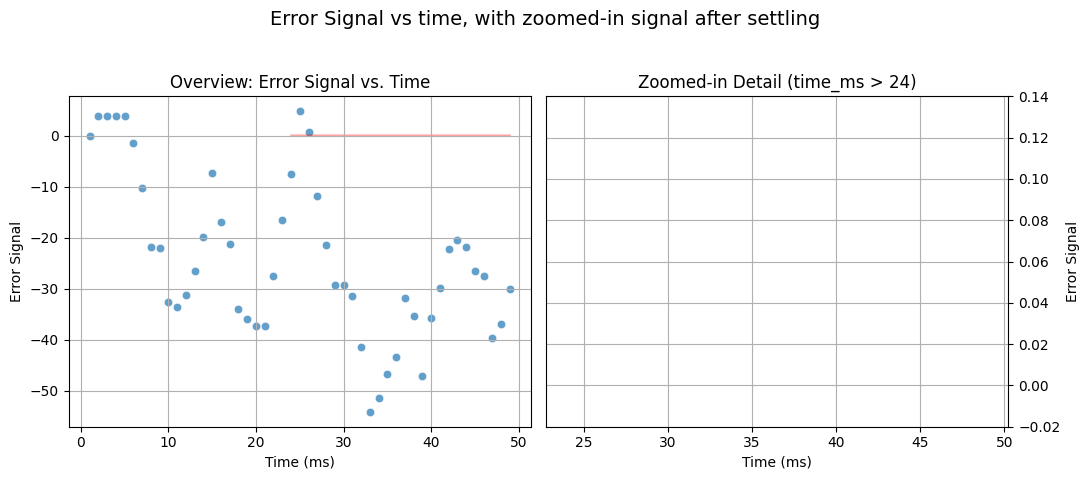
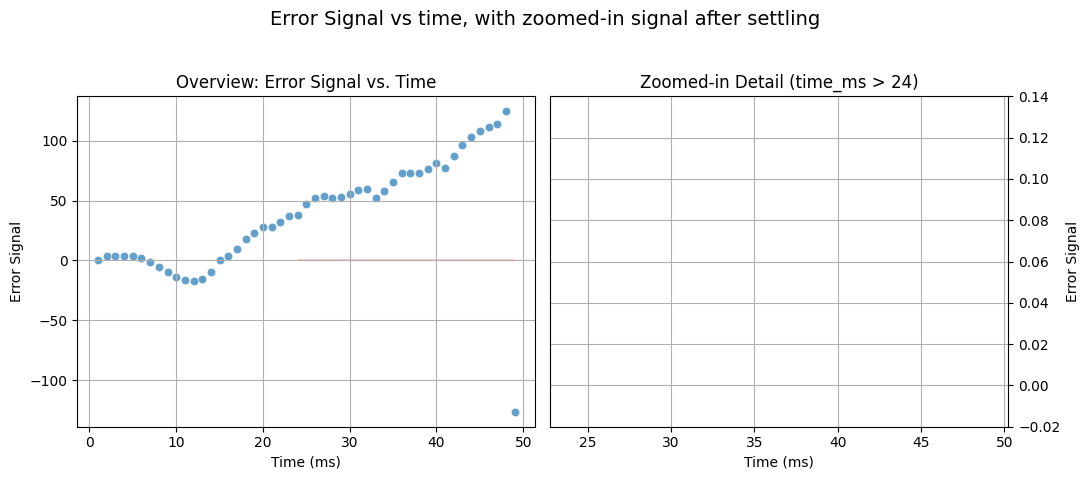
adding waveform configs, tsing model after adding iterm.

diff --git a/dataplotter.py b/dataplotter.py
@@ -15,7 +15,7 @@ def create_plot(df_polars, zoom_x_start, width=11, height=5, y_zoom_limits=(-0.0
     detail_data_pd = detail_data_pl.to_pandas()
 
     # Plot 1: Overview
-    sns.scatterplot(data=overview_data_pd, x='time_ms', y='error_signal', ax=axes[0], alpha=0.7)
+    sns.scatterplot(data=overview_data_pd, x='time_ms', y='error', ax=axes[0], alpha=0.7)
     axes[0].set_title('Overview: Error Signal vs. Time')
     axes[0].set_xlabel('Time (ms)')
     axes[0].set_ylabel('Error Signal')
@@ -23,7 +23,7 @@ def create_plot(df_polars, zoom_x_start, width=11, height=5, y_zoom_limits=(-0.0
 
     # Plot 2: Zoomed-in Detail
     if not detail_data_pd.empty:
-        sns.scatterplot(data=detail_data_pd, x='time_ms', y='error_signal', ax=axes[1], alpha=0.7, color='blue')
+        sns.scatterplot(data=detail_data_pd, x='time_ms', y='error', ax=axes[1], alpha=0.7, color='blue')
         axes[1].set_title(f'Zoomed-in Detail (time_ms > {zoom_x_start})')
         axes[1].set_ylim(y_zoom_limits) # Apply zoom
         axes[1].yaxis.tick_right()

diff --git a/python_sync_script.py b/python_sync_script.py
@@ -4,7 +4,7 @@ from pathlib import Path
 import subprocess
 
 exclusions = ['plant.vhd']
-additions =[]
+additions =[r'C:\prog\fpga\PID_temp_controller\PI_waveforms.wcfg']
 
 # First copy the vhd files of interest. 
 copy_to_dir = Path(r'C:\prog\repos\PID_temperature_controller')
